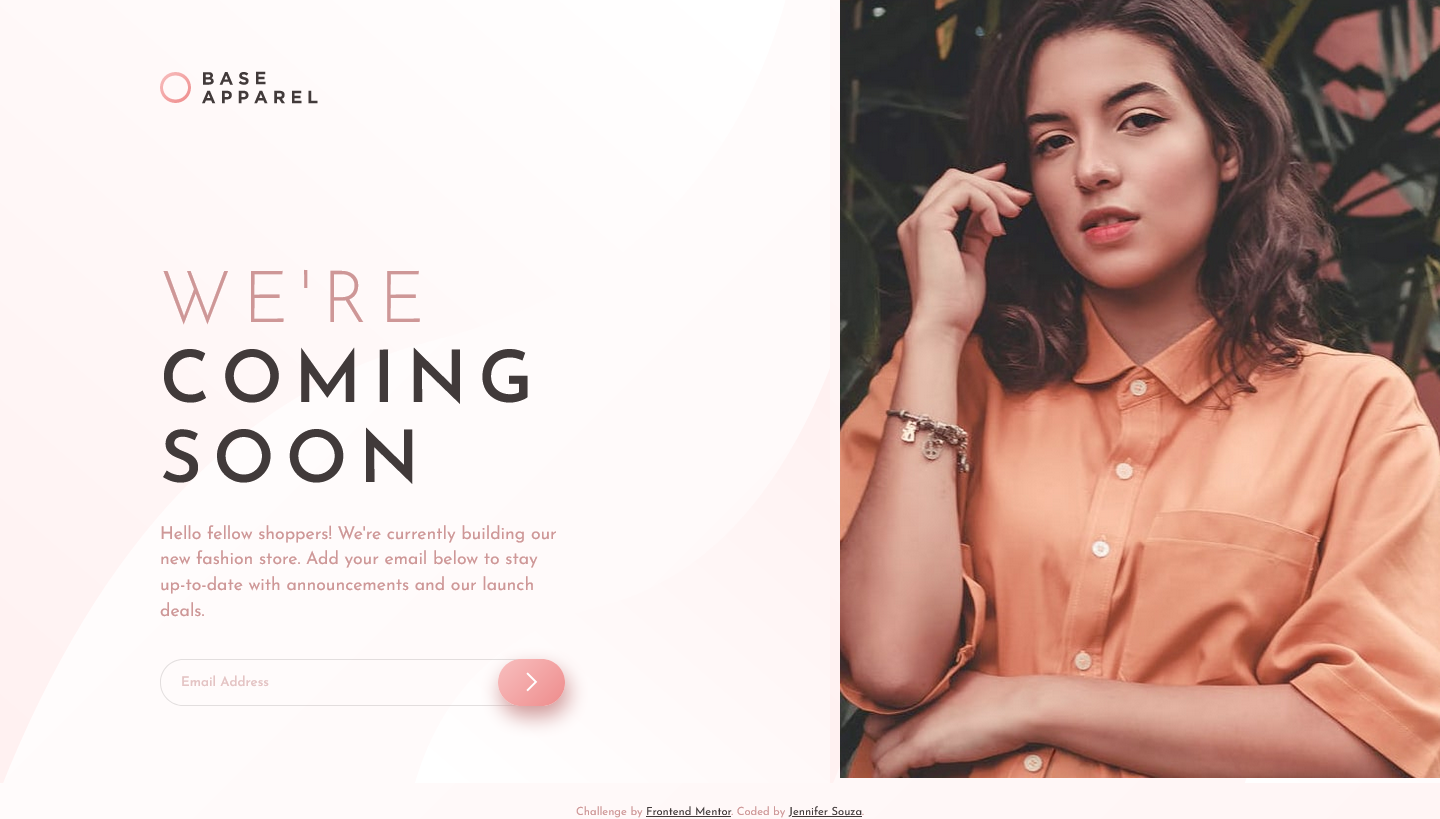
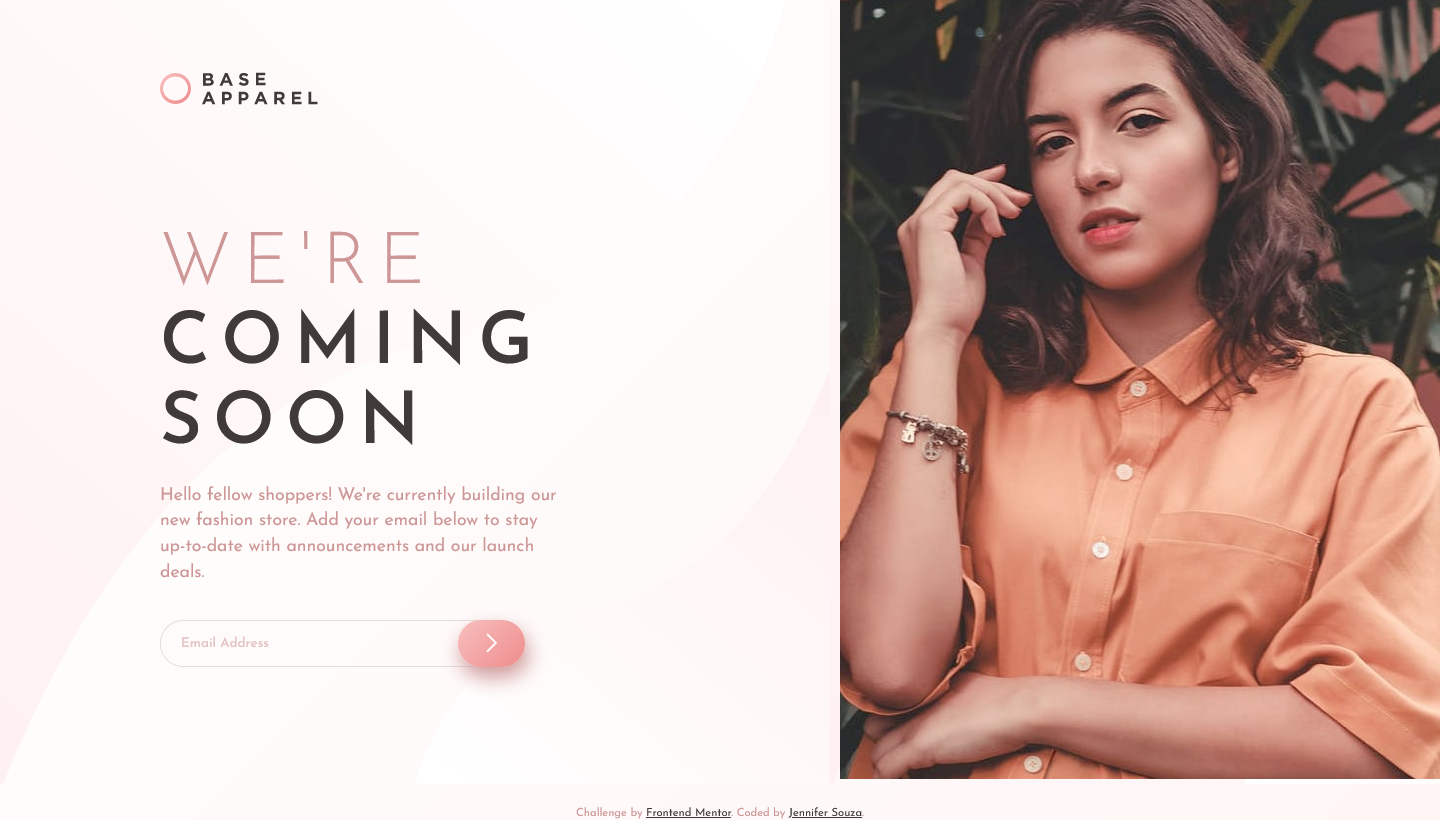
changed padding on Main

diff --git a/style.css b/style.css
@@ -208,7 +208,8 @@ button:active {
     main {
         width: auto;
         padding-inline: 5em;
-        padding-block: 2em;
+        padding-top: 0;     
+        padding-bottom: 5em;   
         grid-row: 2;
         grid-column: 1;
         text-align: left;
@@ -256,5 +257,7 @@ button:active {
 
     main {
         padding-inline: 10em;
+        padding-top:0;
+        padding-bottom: 5em;
     }  
  }
